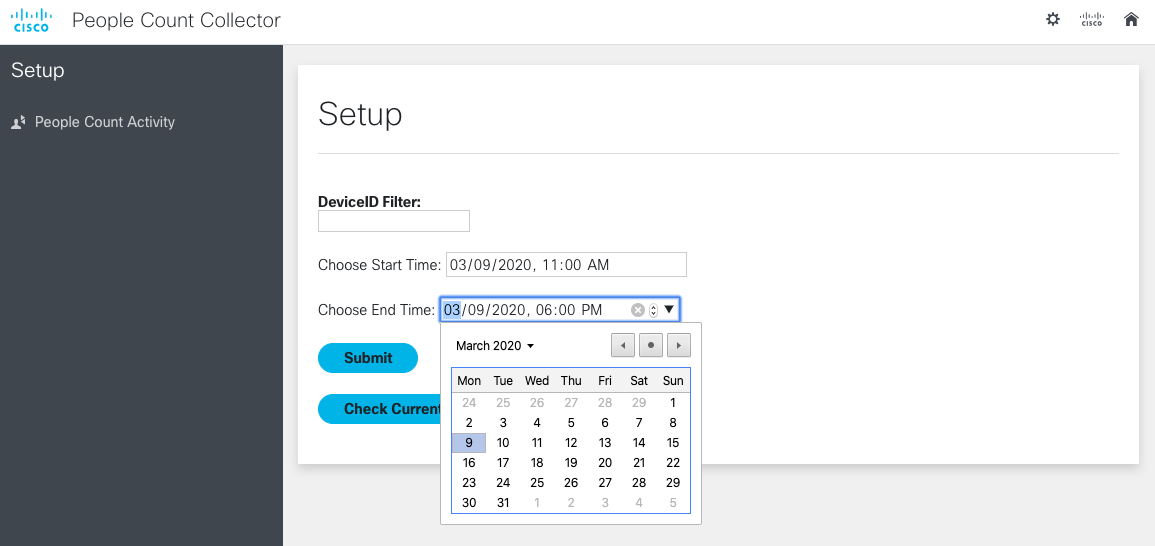
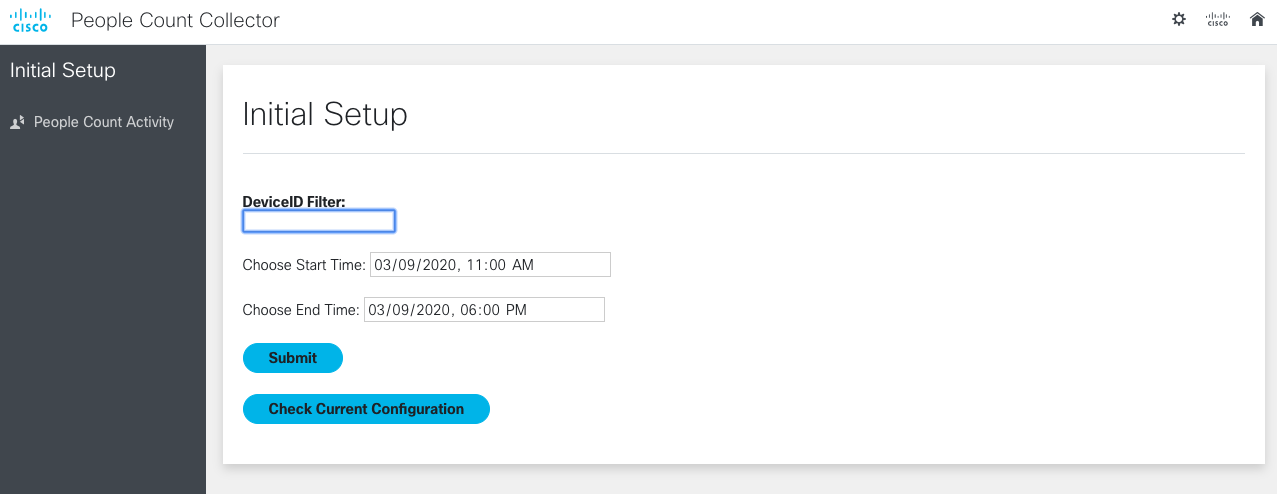
updating screenshots

diff --git a/README.MD b/README.MD
@@ -1,3 +1,7 @@
+| :exclamation:  External repository notice   |
+|:---------------------------|
+| This repository is now mirrored at https://github.com/gve-sw/WebexRoomDevicesPeopleCountCollector. Please inform a https://github.com/gve-sw/ organization admin of any changes to mirror them to the external repo |
+
 # Webex Room Device People Count Collector
 
 This sample code retrieves peoplecount data from Cisco Webex Collaboration Room Devices periodically
@@ -6,8 +10,9 @@ the name of the devices.
 
 ![Main page](Images/PeopleCountCollector.png)
 
-In this setup page, accessible from the cogwheel icon on the top right, you can set the time period to consider for
-calculating hourly averages and any filtering you want to do on the Device IDs (i.e. RoomKit* will limit the list to only devices with IDs start with RoomKit)
+In this initial setup page, accessible from the cogwheel icon on the top right, you can set the initial time period to consider for
+calculating hourly averages and any initial filtering you want to do on the Device IDs (i.e. RoomKit* will limit the list to only devices with IDs start with RoomKit)
+You can always change the start and stop dates and select a specific device from a dropdown list when viewing the main page as you can see above.
 
 ![Setup](Images/CollectorSetup.png)
 
